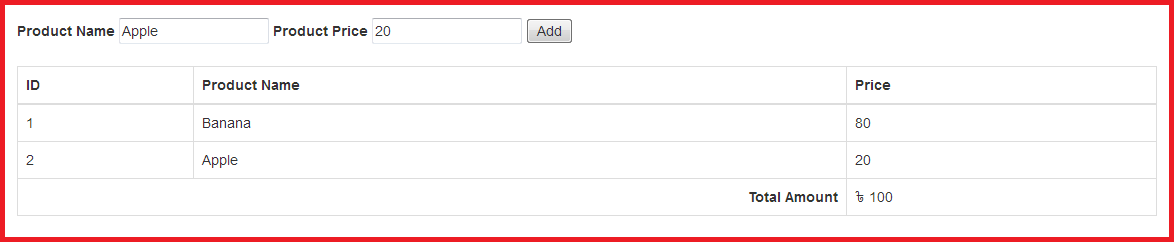
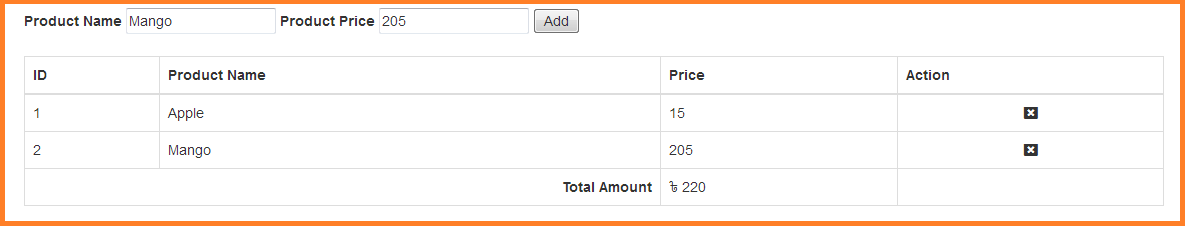
new change

diff --git a/index.html b/index.html
@@ -6,6 +6,7 @@
     <title>Page Title</title>
     <meta name="viewport" content="width=device-width, initial-scale=1">
     <link rel="stylesheet" href="https://maxcdn.bootstrapcdn.com/bootstrap/3.4.0/css/bootstrap.min.css">
+    <link rel="stylesheet" href="https://use.fontawesome.com/releases/v5.8.0/css/all.css">
     <script src="https://maxcdn.bootstrapcdn.com/bootstrap/3.4.0/js/bootstrap.min.js"></script>
     <script src="jquery-3.3.1.min.js"></script>
     <style>
@@ -30,15 +31,16 @@
               <th>ID</th>
               <th>Product Name</th>
               <th>Price</th>
+              <th>Action</th>
             </tr>
           </thead>
           <tbody id="tableColumn">
-            
+            <tr id="nothing_here"><td colspan="4" align="center">Nothing here</td></tr>
           </tbody>
           <tfoot>
                 <tr>
                     <td colspan="2" style="text-align:right; font-weight:bold;">Total Amount</td>
-                    <td id="total_amount_area" colspan="2">
+                    <td id="total_amount_area">
                         <span>&#2547;</span>
                         <span id="total_amount_text">00</span>
                         <input type="hidden" name="total_amount" value="0"/>
@@ -54,14 +56,30 @@
                 var product_name = $('#product_name').val();
                 var product_price = $('#product_price').val();
                 sl++;
-                var columnValue = '<tr id="'+sl+'"><td>'+sl+'</td>';
+                var columnValue = '<tr id="'+sl+'"><td class="sl_no">'+sl+'</td>';
                     columnValue += '<td>'+product_name+'</td>';
-                    columnValue += '<td>'+product_price+'</td></tr>';
+                    columnValue += '<td>'+product_price+'</td>';
+                    columnValue += '<td align="center"><i class="fas fa-window-close remove_amount" style="cursor:pointer;"></i></td></tr>';
                     columnValue += '<input type="hidden" name="product_names[]" value="'+product_name+'">';
                     columnValue += '<input type="hidden" name="product_prices[]" value="'+product_price+'">';
                 $('#tableColumn').append(columnValue);
+                $('#nothing_here').remove();
                 amountCount();
-            })
+            });
+
+
+            $("#tableColumn").on('click', '.remove_amount', function(e) {
+                $(this).parent().parent().remove();
+                if($("#tableColumn > tr").length==0) {
+                    $("#tableColumn").append('<tr><td colspan="4" align="center">Nothing here</td></tr>');
+                } else {
+                    $("#tableColumn > tr").each(function(index, element) {
+                        $(element).find(".sl_no").text(index+1);
+                    });
+                }
+                amountCount();
+                sl--;
+            });
 
             function amountCount() {
                 var total_amount = 0;
